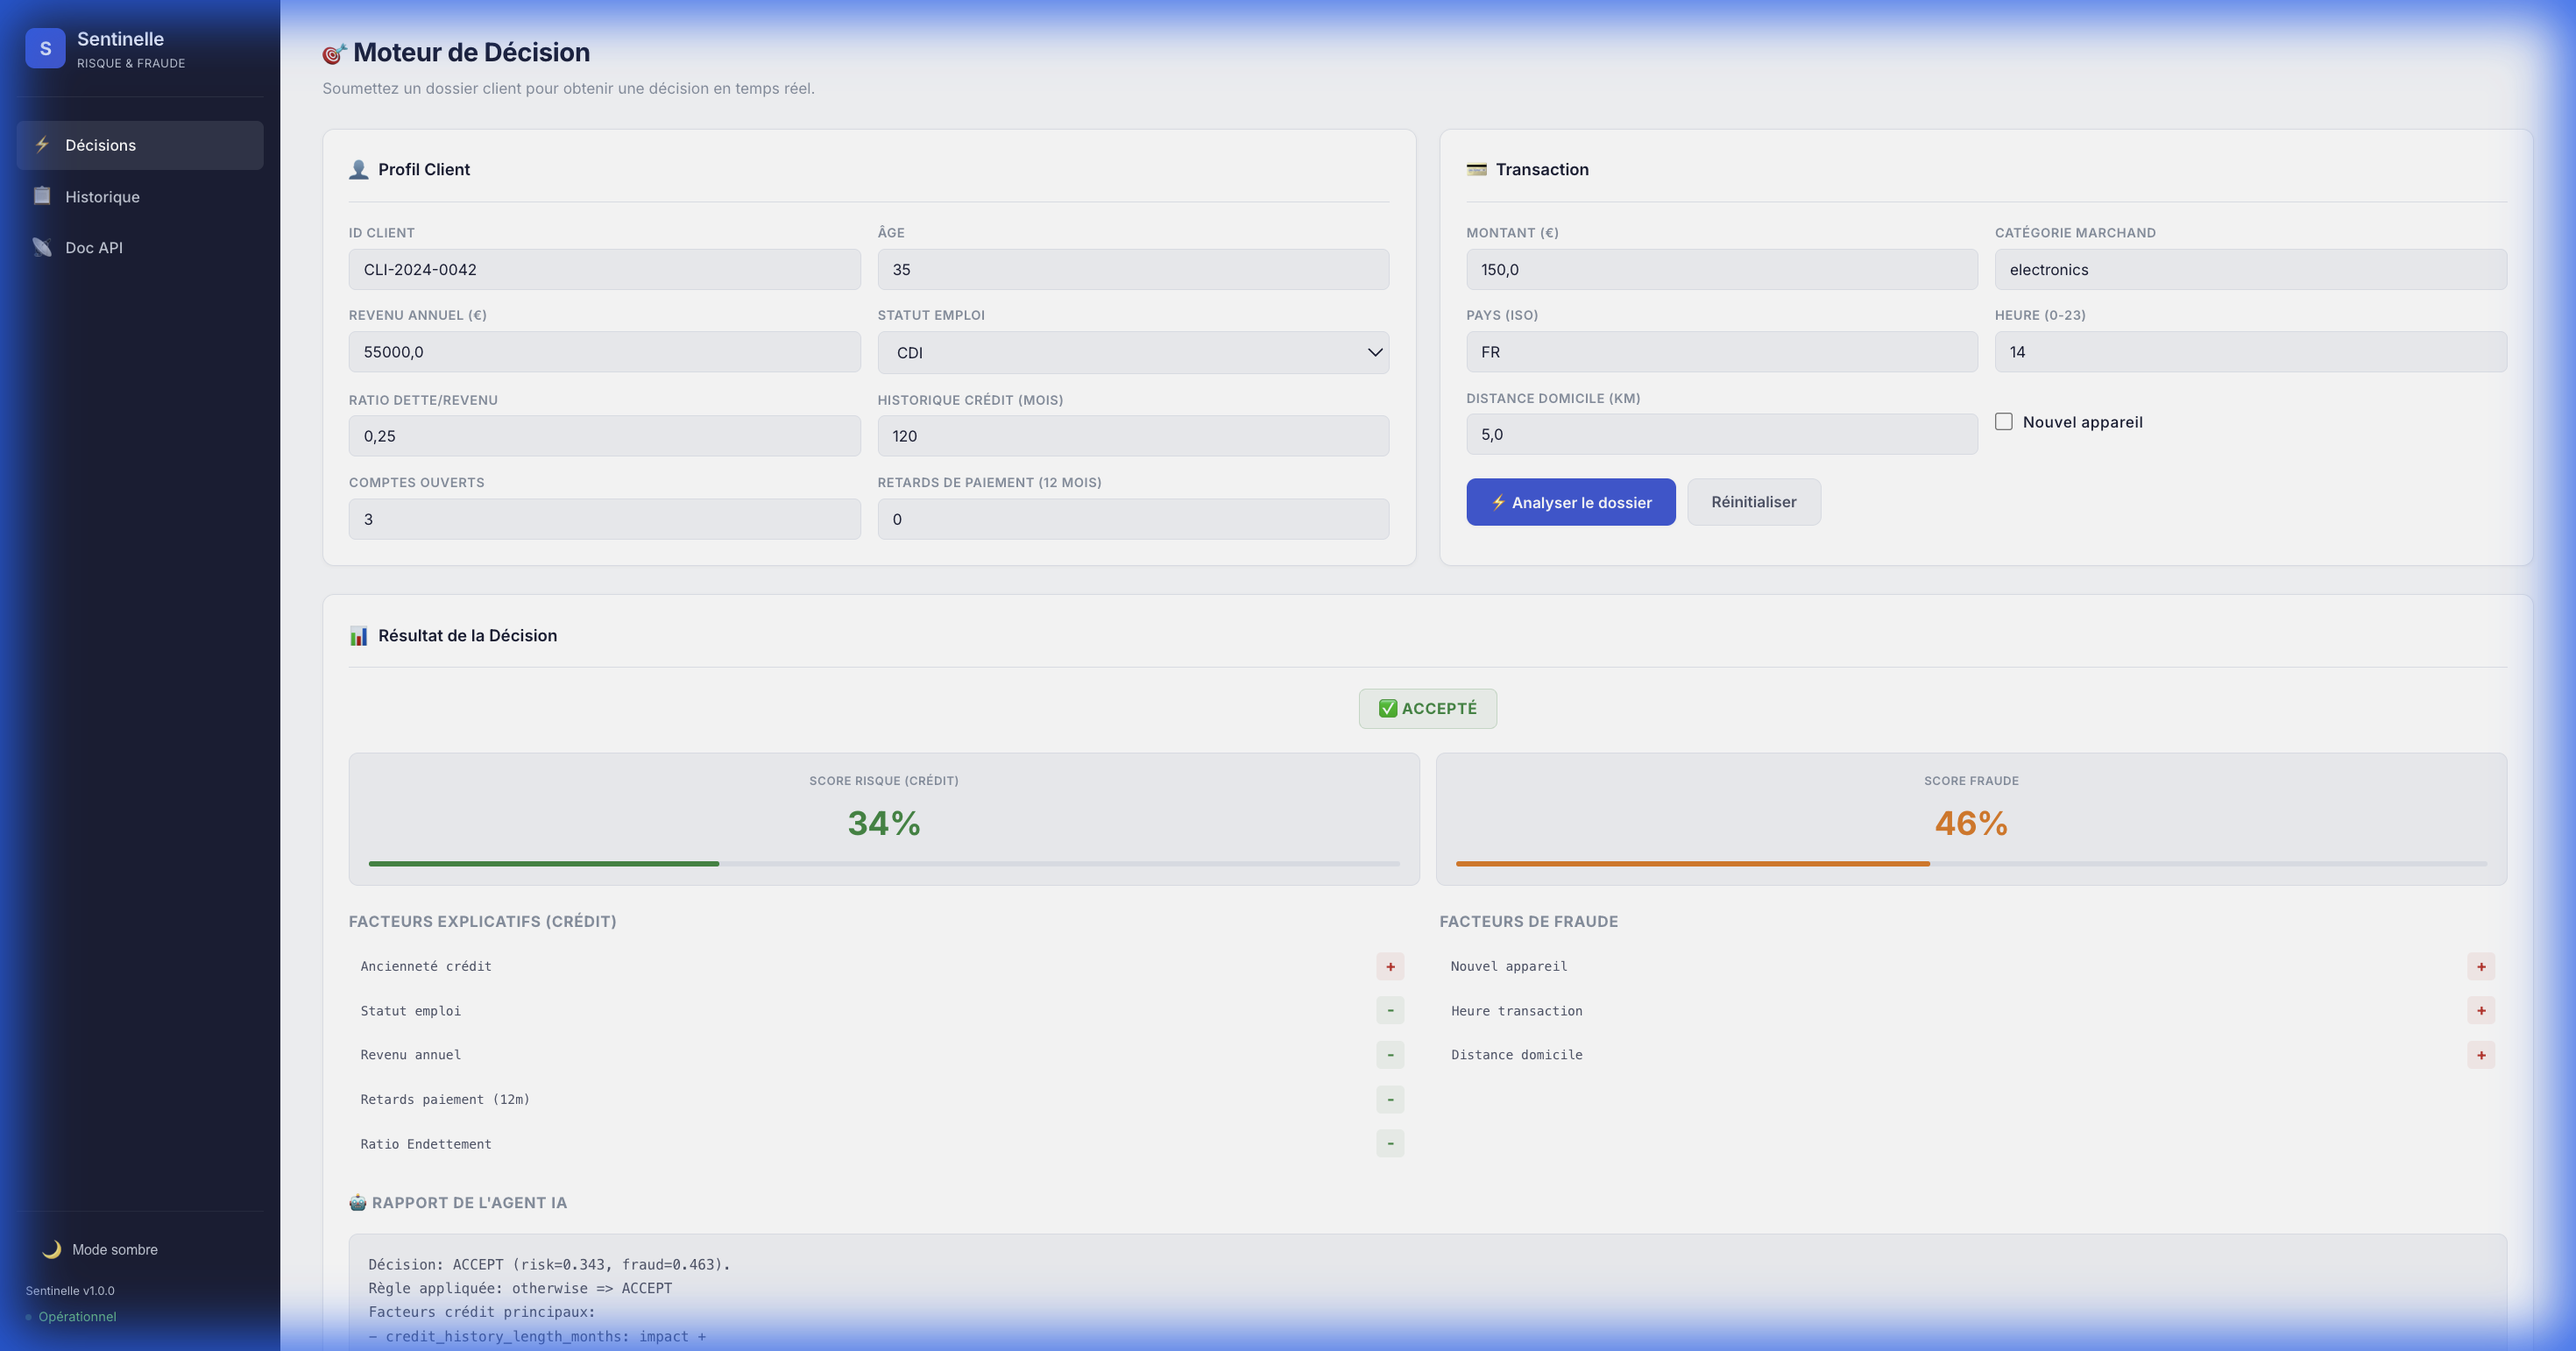
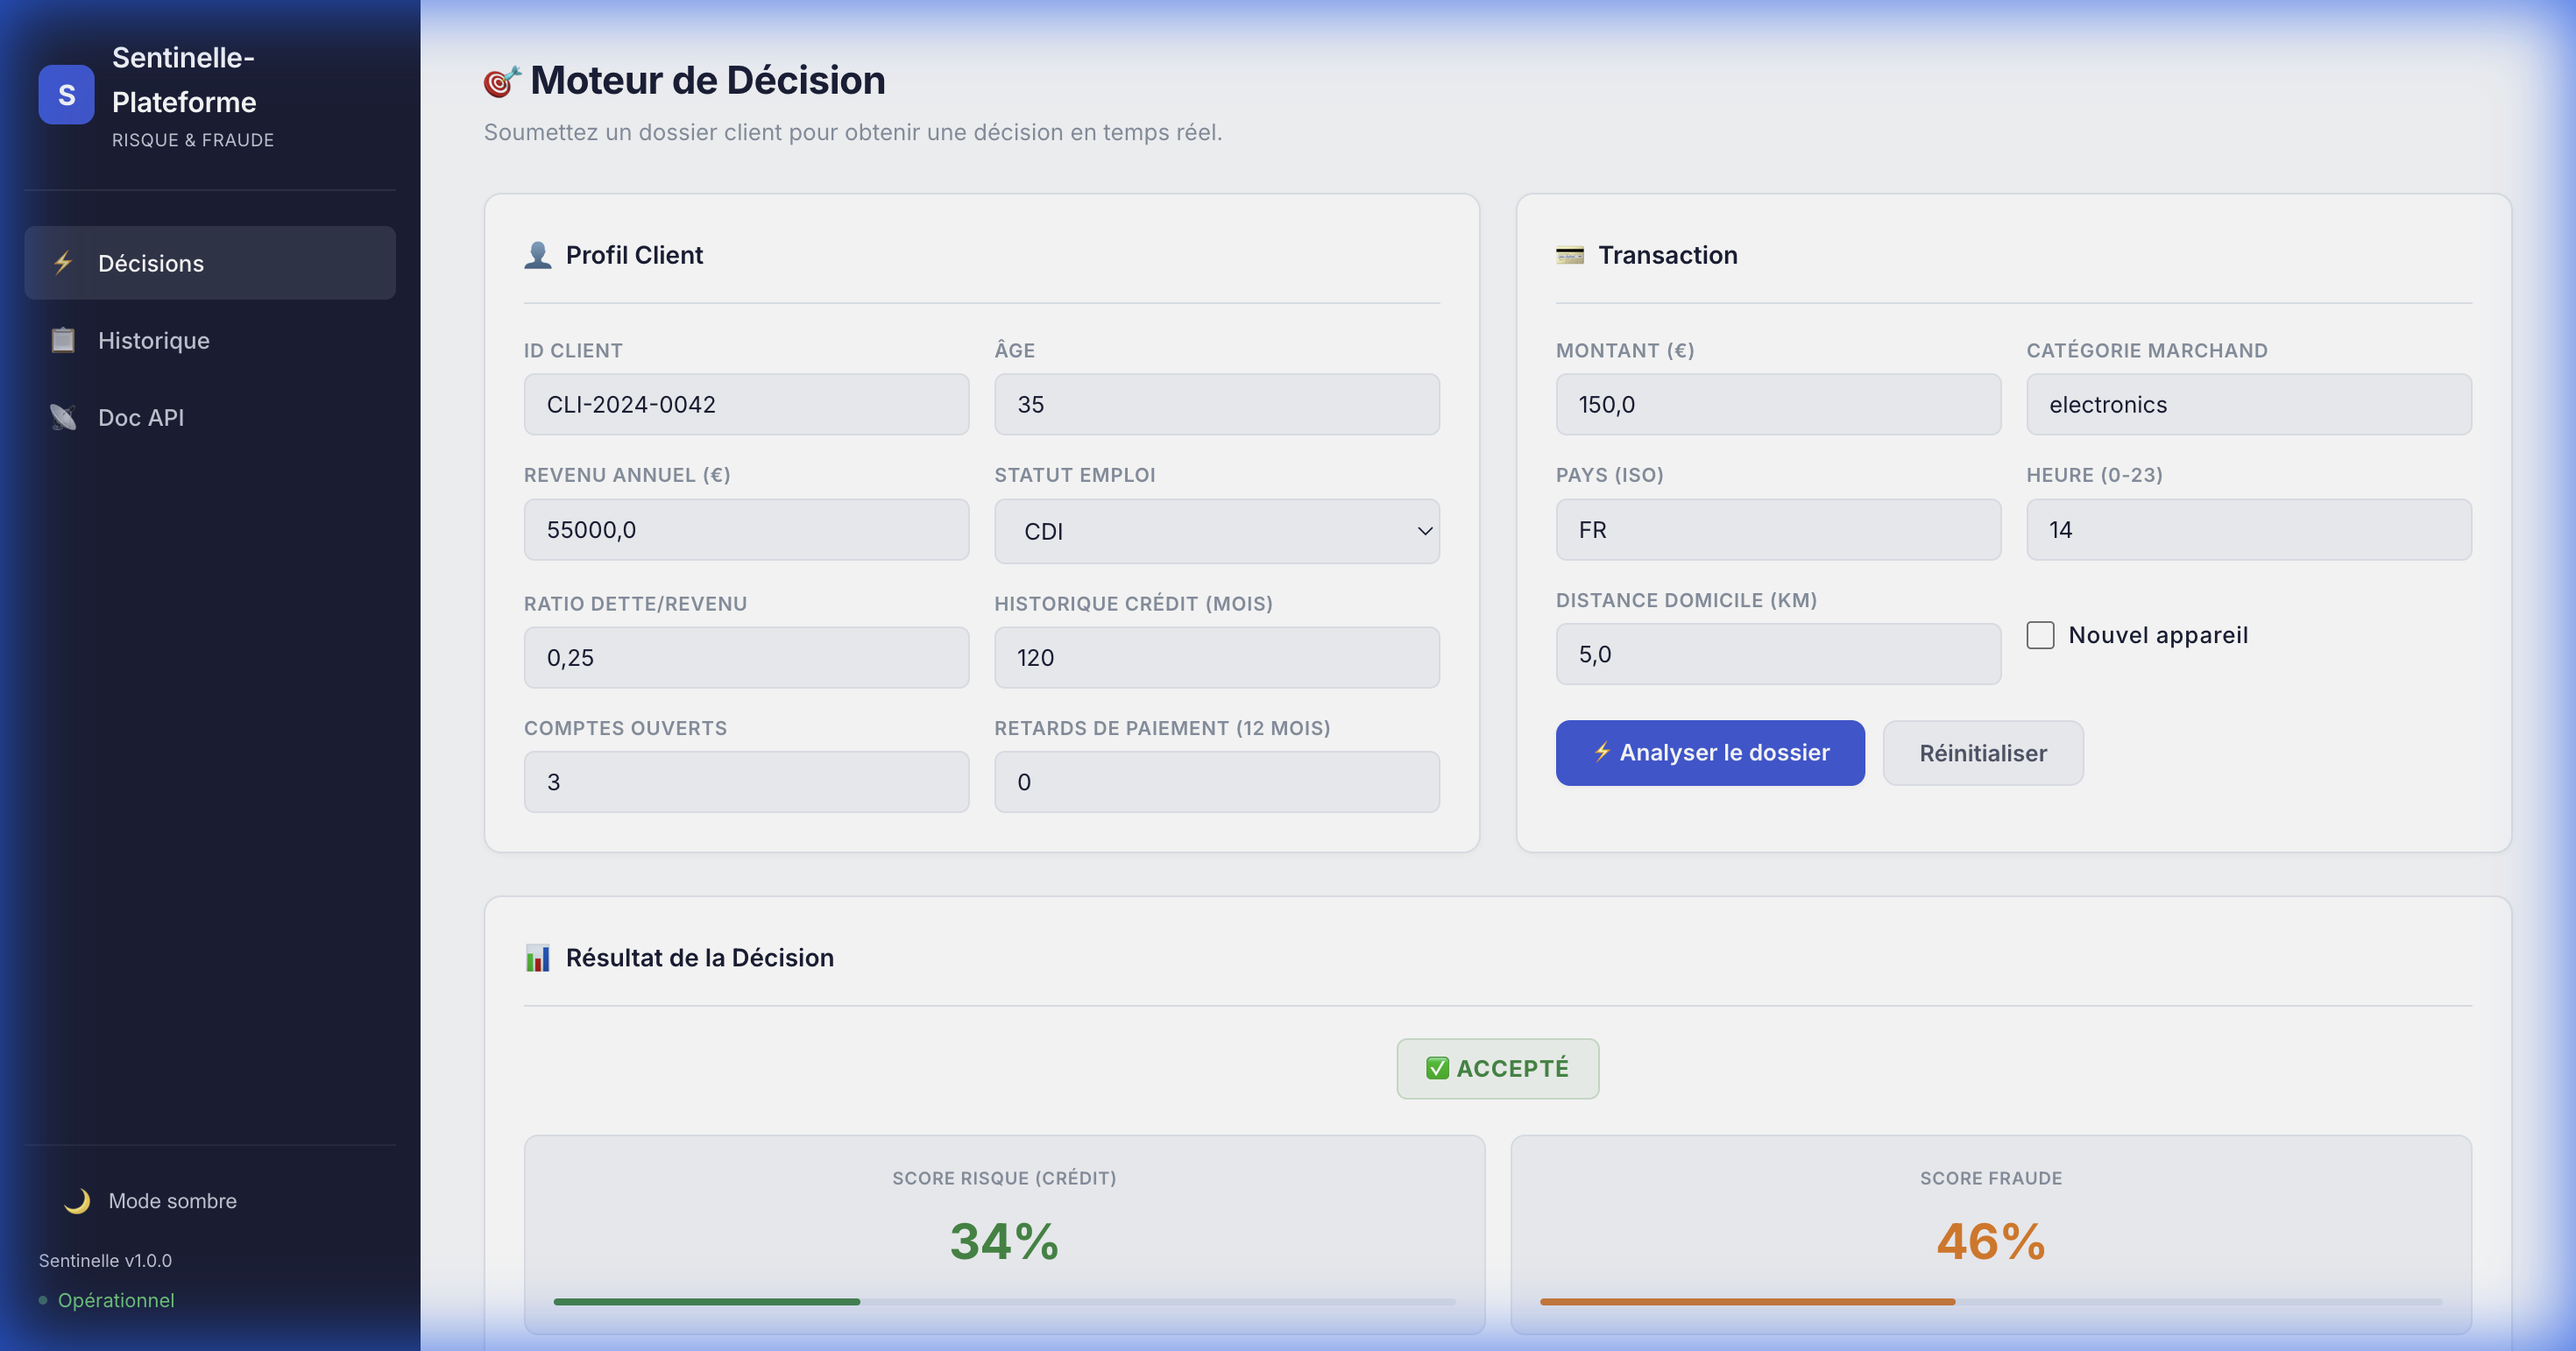
refactor(branding): rename project to Sentinelle-Plateforme in UI and docs

diff --git a/api/app/templates/base.html b/api/app/templates/base.html
@@ -4,7 +4,7 @@
 <head>
     <meta charset="UTF-8">
     <meta name="viewport" content="width=device-width, initial-scale=1.0">
-    <title>{% block title %}Sentinelle{% endblock %}</title>
+    <title>{% block title %}Sentinelle-Plateforme{% endblock %}</title>
     <link rel="stylesheet" href="/static/style.css">
 </head>
 
@@ -15,7 +15,7 @@
             <div class="sidebar-brand">
                 <div class="logo">S</div>
                 <div>
-                    <h1>Sentinelle</h1>
+                    <h1>Sentinelle-Plateforme</h1>
                     <span>Risque & Fraude</span>
                 </div>
             </div>

diff --git a/api/app/settings.py b/api/app/settings.py
@@ -3,7 +3,7 @@ from pydantic_settings import BaseSettings, SettingsConfigDict
 class Settings(BaseSettings):
     model_config = SettingsConfigDict(env_file=".env", extra="ignore")
 
-    app_name: str = "Sentinelle - Plateforme de Décision Risque & Fraude"
+    app_name: str = "Sentinelle-Plateforme - Plateforme de Décision Risque & Fraude"
     environment: str = "dev"
 
     # Base de données

diff --git a/docs/GUIDE_ENTRETIEN.md b/docs/GUIDE_ENTRETIEN.md
@@ -1,0 +1,90 @@
+# 🎓 Guide d'Entretien : Projet Sentinelle-Plateforme
+
+Ce document est conçu pour t'aider à présenter **Sentinelle** lors d'un entretien technique ou fonctionnel. Il décortique chaque aspect du projet avec un angle pédagogique ("Pourquoi on a fait ça ?") et technique ("Comment ça marche ?").
+
+---
+
+## 1. Le Pitch (L'accroche) 🎤
+
+**"C'est quoi Sentinelle ?"**
+
+> "Sentinelle-Plateforme est une plateforme de décision temps réel pour l'évaluation du risque de crédit et la détection de fraude. C'est une solution 'Enterprise-Ready' qui combine l'analyse quantitative classique (Scoring) avec l'analyse comportementale (Fraude) et l'IA Générative pour l'explicabilité."
+
+**Mots-clés à placer :**
+*   **Temps réel** (API < 200ms)
+*   **Hybride** (Règles métiers + Machine Learning)
+*   **Human-in-the-loop** (L'IA propose, l'humain valide les cas complexes)
+*   **Explicabilité** (SHAP + LLM)
+*   **Conformité** (RGPD / AI Act)
+
+---
+
+## 2. Architecture Technique (La vue d'ensemble) 🏗
+
+Si on te demande de dessiner l'architecture, visualise ces 4 blocs :
+
+1.  **L'API Gateway (FastAPI)** : C'est le chef d'orchestre. Elle reçoit la demande, interroge les modèles, vérifie les règles, et stocke le résultat.
+2.  **Le Moteur ML (Scikit-Learn / XGBoost)** :
+    *   Un modèle supervisé pour le **Crédit** (est-ce qu'il va payer ?).
+    *   Un modèle non-supervisé pour la **Fraude** (est-ce une anomalie ?).
+3.  **L'Agent Explicatif (LLM)** : Il prend les scores bruts et les valeurs SHAP pour rédiger un rapport en français ("Le client est rejeté car son ratio dette/revenu est trop élevé...").
+4.  **L'Observabilité (Grafana/Prometheus)** :
+    *   **Monitoring "Senior++" (IaC)** : On ne configure rien à la main. Tout est code.
+    *   **Producer** : L'API expose des métriques métier (`decision_total_count`, `model_latency`) via Prometheus Client.
+    *   **Scraper** : Prometheus collecte ces données toutes les 5s.
+    *   **Viewer** : Grafana est pré-configuré (provisioning) pour afficher un dashboard JSON versionné. Cela garantit que si on redéploie l'infra, on ne perd pas nos graphiques.
+
+---
+
+## 3. Choix Techniques & Justifications 💡
+
+En entretien, on te demandera "Pourquoi X et pas Y ?". Voici les réponses :
+
+### 🐍 Pourquoi Python & FastAPI ?
+*   **Performance** : FastAPI est asynchrone, parfait pour gérer beaucoup de requêtes simultanées.
+*   **Typage fort (Pydantic)** : On valide les données à l'entrée. Si l'âge est une chaîne de caractères ("trente"), ça plante proprement avant même d'arriver au modèle. Sécurité et robustesse.
+
+### 🤖 Pourquoi ces modèles ML ?
+*   **Pour le Crédit (Logistic Regression / XGBoost)** : On a besoin d'**interprétabilité**. Une banque doit pouvoir dire pourquoi un crédit est refusé. La régression logistique est transparente.
+*   **Pour la Fraude (Isolation Forest)** : La fraude change tout le temps. Un modèle supervisé apprendrait "les fraudes d'hier". L'*Isolation Forest* détecte les **anomalies** (ce qui sort de l'ordinaire), ce qui est plus robuste pour détecter les *nouveaux* types de fraudes.
+
+### ⚖ Pourquoi SHAP (Shapley Additive Explanations) ?
+*   C'est le standard de l'industrie pour l'explicabilité. Ça nous dit *exactement* combien chaque variable (revenu, âge, dette) a contribué au score final, positivement ou négativement.
+
+### 🐳 Pourquoi Docker ?
+*   Pour la **reproductibilité**. "Ça marche sur ma machine" n'est pas une réponse acceptable. Avec Docker, l'environnement est iso-prod du début à la fin.
+
+---
+
+## 4. Les Challenges Résolus (Pour briller) ✨
+
+Raconte une histoire sur les difficultés rencontrées :
+
+*   **Le Challenge de l'Explicabilité** : "Les scores bruts (0.76) ne parlent pas aux conseillers bancaires. J'ai intégré un **Agent LLM** qui traduit ces maths en phrases claires en français. J'ai dû travailler le *Prompt Engineering* pour que l'IA n'hallucine pas (ne pas inventer de chiffres)."
+*   **La Gestion des Cas Limites** : "L'automatisation à 100% est dangereuse. J'ai implémenté une logique de 'Zone Grise' (Review). Si le score est moyen, on ne rejette pas automatiquement, on envoie à un humain. C'est crucial pour l'éthique et la conformité."
+*   **L'Interface Utilisateur** : "Je ne voulais pas d'un Swagger gris. J'ai développé un Dashboard complet (Thème Light Corporate / Dark Mode) pour que les parties prenantes non-techniques puissent tester et visualiser les décisions."
+
+---
+
+## 5. Conformité & Éthique (Le bonus Senior) 🛡
+
+Montre que tu ne fais pas que du code, mais que tu comprends le métier :
+
+*   **RGPD** : "J'ai appliqué la **pseudonymisation**. On ne stocke pas le nom du client, mais un hash de son ID."
+*   **AI Act** : "Le système est documenté (Model Card, Data Sheet). Il y a toujours un humain dans la boucle pour les décisions critiques."
+
+---
+
+## 6. Questions Types auxquelles s'attendre ❓
+
+**Q: Comment gères-tu le ré-entraînement du modèle ?**
+*   **R:** "Actuellement c'est un script manuel, mais grâce à MLflow, on tracke toutes les métriques. L'étape suivante serait d'automatiser le ré-entraînement via Airflow si on détecte une dérive (Data Drift) dans Grafana."
+
+**Q: Si l'API est lente, que fais-tu ?**
+*   **R:** "Je regarde d'abord les métriques Prometheus pour voir si c'est le modèle ML ou la base de données qui bloque. Si c'est le modèle, je peux optimiser l'inférence (ONNX) ou scaler horizontalement les conteneurs API avec Kubernetes."
+
+**Q: Comment gères-tu le monitoring en production ?**
+*   **R:** "Le monitoring est entièrement **provisionné as code**. Les métriques métier sont exposées par l'API, scrappées par Prometheus, et le dashboard Grafana est versionné en JSON. C'est reproductible, audit-able et iso-prod immédiat."
+
+**Q: Comment sécurises-tu l'application ?**
+*   **R:** "Validation stricte des entrées (Pydantic), pas de données sensibles en clair (Hash), et isolation des services via Docker Network."

diff --git a/docs/WALKTHROUGH.md b/docs/WALKTHROUGH.md
@@ -120,3 +120,15 @@ La documentation complète et bilingue du projet est disponible dans :
 - [`MODEL_CARD.md`](MODEL_CARD.md) : Détails des modèles ML.
 - [`DATA_SHEET.md`](DATA_SHEET.md) : Description des données.
 - [`AI_COMPLIANCE.md`](AI_COMPLIANCE.md) : Conformité AI Act / RGPD.
+
+## 6. Monitoring Avancé (Senior++) 📊
+
+### Infrastructure as Code
+Le dashboard Grafana est désormais entièrement **provisionné par code** (`monitoring/grafana/provisioning`), éliminant toute configuration manuelle.
+
+### Métriques Clés
+- **Latence Modèle** : Histogramme précis du temps d'inférence (hors réseau/DB).
+- **Drift Alert** : Gauge binaire qui passe à 1 si des entrées anormales (Revenu > 150k, Endettement > 0.6) sont détectées.
+- **Business KPI** : Compteur de décisions par type (ACCEPT/REJECT/REVIEW) et distribution des scores.
+
+Accès : http://localhost:3000 (admin/admin) -> Dashboard "Sentinelle ML Dashboard".

diff --git a/docs/ARCHITECTURE_ET_CHOIX.md b/docs/ARCHITECTURE_ET_CHOIX.md
@@ -1,6 +1,6 @@
 # 🧭 Architecture & Choix Techniques
 
-Ce document détaille la philosophie, l'architecture et les décisions techniques du projet **Sentinelle**. Il sert de référence pour comprendre le fonctionnement interne de la plateforme et les motivations derrière chaque brique technologique.
+Ce document détaille la philosophie, l'architecture et les décisions techniques du projet **Sentinelle-Plateforme**. Il sert de référence pour comprendre le fonctionnement interne de la plateforme et les motivations derrière chaque brique technologique.
 
 ---
 

diff --git a/README.md b/README.md
@@ -1,4 +1,4 @@
-# Sentinelle – Plateforme de Décision Risque & Fraude
+# Sentinelle-Plateforme – Plateforme de Décision Risque & Fraude
 
 ![Python](https://img.shields.io/badge/Python-3.11-blue)
 ![FastAPI](https://img.shields.io/badge/FastAPI-Production-green)
